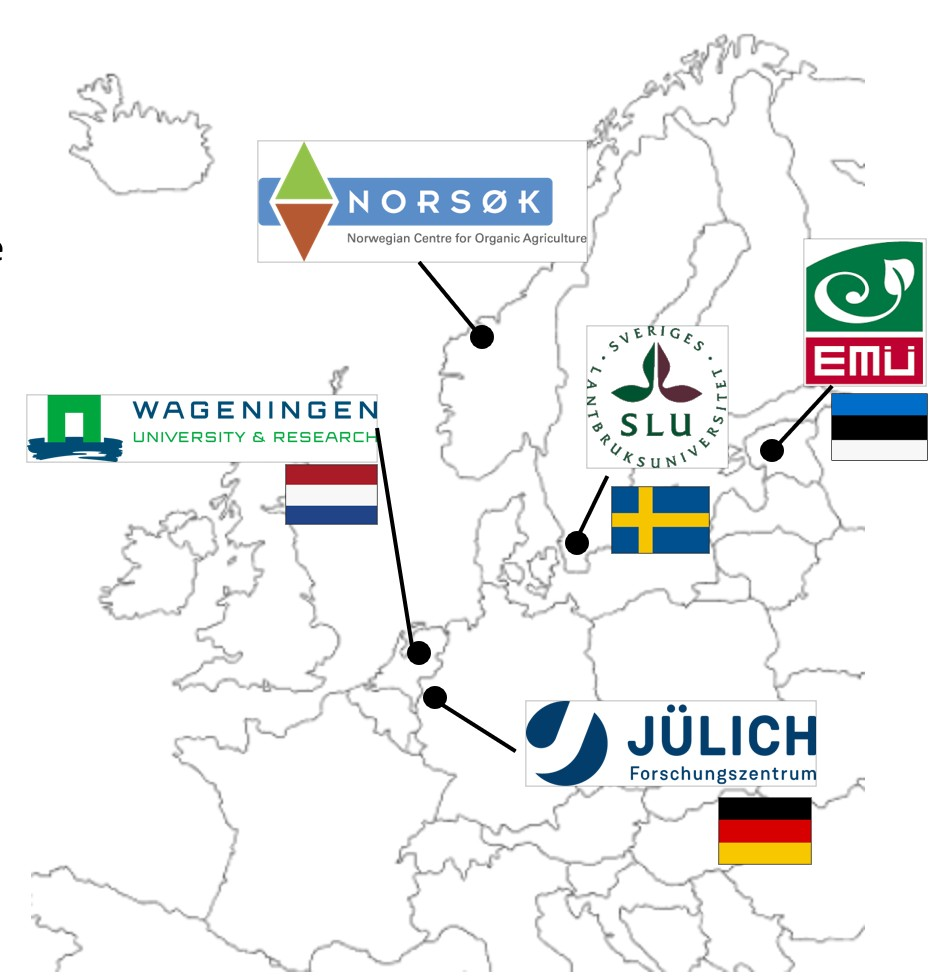
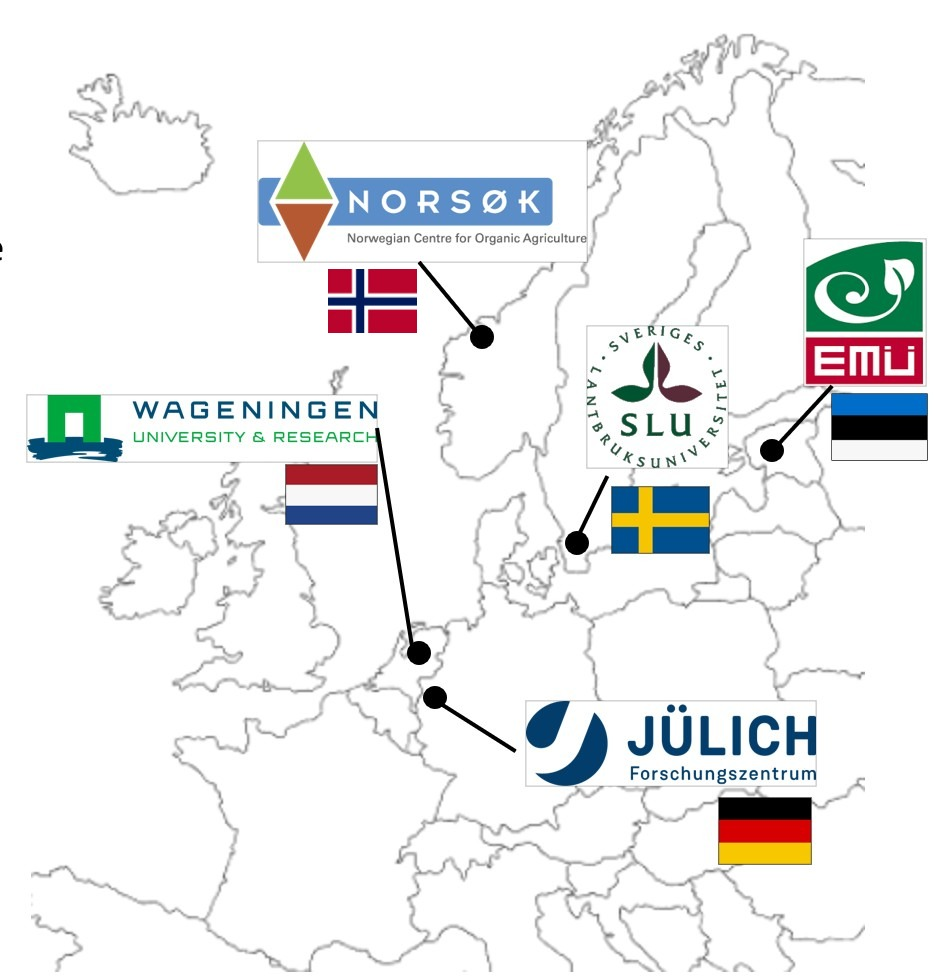
Update objectives page and add map/raw image assets

Changed region(s): [[0.3412, 0.2758, 0.4652, 0.3371]]

diff --git a/objectives.html b/objectives.html
@@ -164,7 +164,7 @@
                             <p>Research Station Dethlingen under the Lower Saxony Chamber of Agriculture provides state-of-the-art facilities and expertise in potato research. The focus is on nutrient management and reduction of pathogen pressure in intensive potato cropping systems.</p>
                         </div>
                         <div class="field-trial-item">
-                            <h3><i class="fa-solid fa-wheat-awn field-icon" aria-hidden="true"></i>Norway</h3>
+                            <h3><i class="fa-solid fa-wheat-awn field-icon" aria-hidden="true"></i>Norway (NORSØK)</h3>
                             <p>NORSØK's certified organic farm "Tingvoll Gård" has established a long-term field trial for early potato production and artificial pathogen inoculation treatments. NORSØK collaborates with Sunndalspotet AS and NLR (Norwegian Agricultural Advisory Service) for best practice and result dissemination.</p>
                         </div>
                         <div class="field-trial-item">
